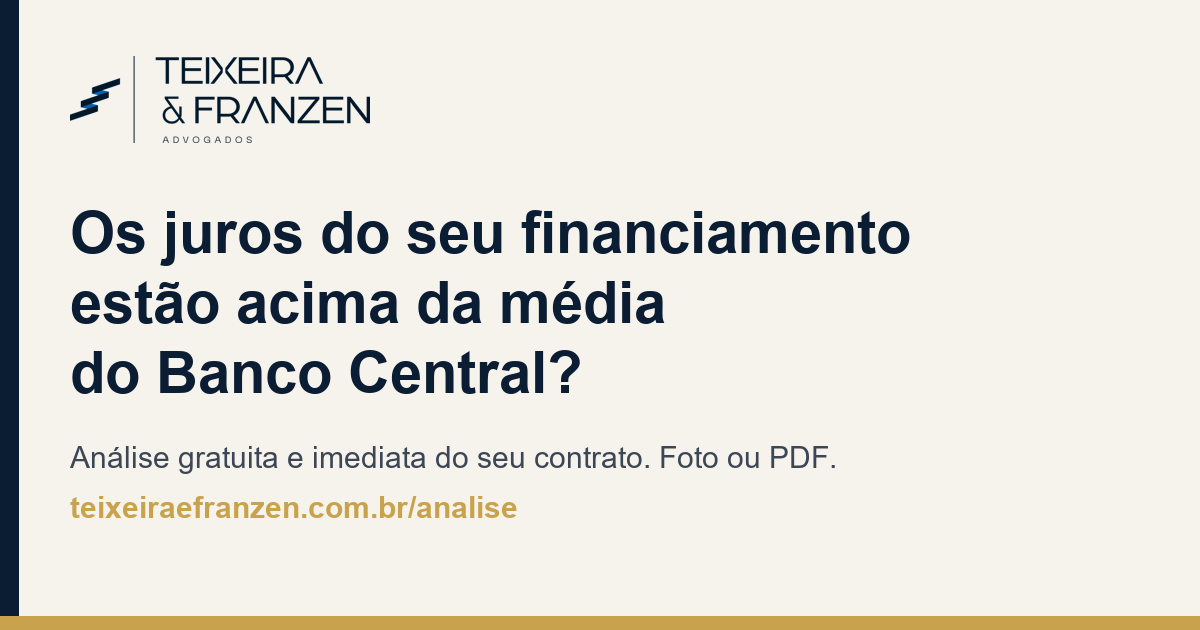
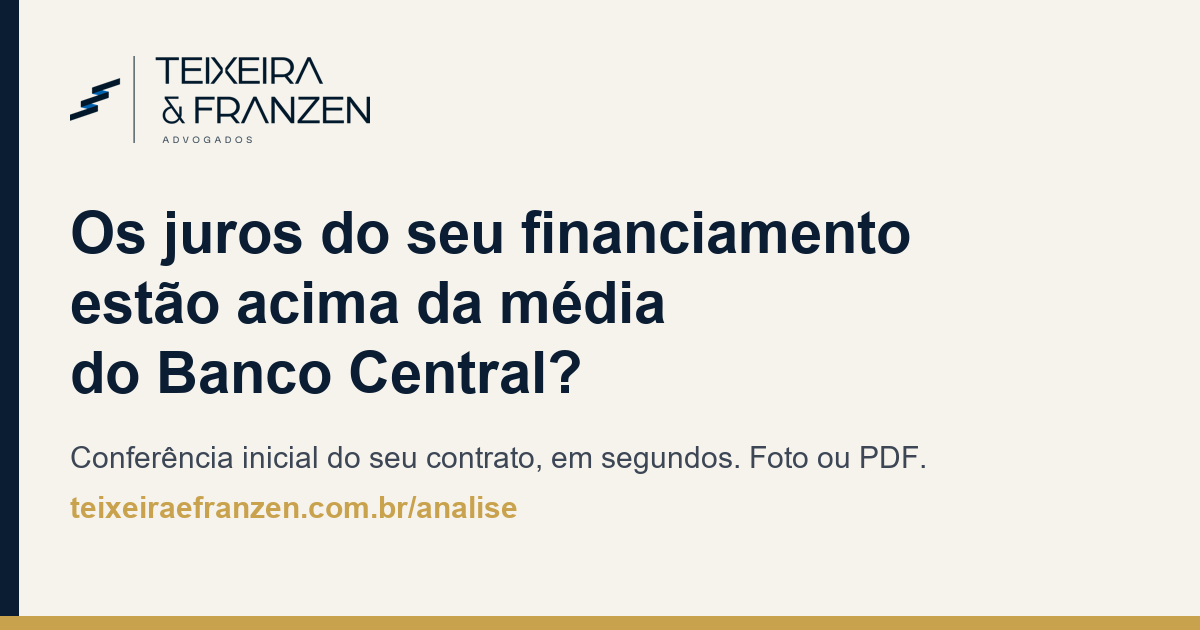
Textos: 'conferência inicial' no lugar de 'análise gratuita'; aviso de caráter informativo no topo

Changed region(s): [[0.0617, 0.6937, 0.7708, 0.754]]

diff --git a/analise/cidades/index.html b/analise/cidades/index.html
@@ -6,14 +6,14 @@
   <meta charset="utf-8">
   <meta name="viewport" content="width=device-width, initial-scale=1">
   <title>Revisional de financiamento e juros abusivos no Rio Grande do Sul: cidades atendidas</title>
-  <meta name="description" content="Análise gratuita de contratos de financiamento, empréstimo e consignado para clientes de todo o Rio Grande do Sul. Veja as cidades atendidas pelo escritório.">
+  <meta name="description" content="Conferência inicial de contratos de financiamento, empréstimo e consignado para clientes de todo o Rio Grande do Sul. Veja as cidades atendidas pelo escritório.">
   <link href="https://fonts.googleapis.com/css2?family=Big+Shoulders+Display:wght@500;600;700;800&family=Source+Serif+4:ital,wght@0,400;0,500;0,600;1,400&family=Inter:wght@400;500;600&display=swap" rel="stylesheet">
   <link rel="stylesheet" href="/analise/style.css">
   <!-- seo-inicio -->
   <link rel="canonical" href="https://teixeiraefranzen.com.br/analise/cidades/">
   <meta property="og:type" content="article">
   <meta property="og:title" content="Revisional de financiamento e juros abusivos no Rio Grande do Sul: cidades atendidas">
-  <meta property="og:description" content="Análise gratuita de contratos de financiamento, empréstimo e consignado para clientes de todo o Rio Grande do Sul. Veja as cidades atendidas pelo escritório.">
+  <meta property="og:description" content="Conferência inicial de contratos de financiamento, empréstimo e consignado para clientes de todo o Rio Grande do Sul. Veja as cidades atendidas pelo escritório.">
   <meta property="og:url" content="https://teixeiraefranzen.com.br/analise/cidades/">
   <meta property="og:locale" content="pt_BR">
   <meta property="og:image" content="https://teixeiraefranzen.com.br/analise/og.png">
@@ -24,7 +24,7 @@
   
   <script type="application/ld+json">{"@context":"https://schema.org","@type":"LegalService","name":"Teixeira & Franzen Advogados","url":"https://teixeiraefranzen.com.br","areaServed":"Rio Grande do Sul, Brasil","description":"Análise informativa de contratos bancários."}</script>
   <!-- seo-fim -->
-  <script type="application/ld+json">{"@context":"https://schema.org","@type":"WebPage","headline":"Revisional de financiamento e juros abusivos no Rio Grande do Sul: cidades atendidas","description":"Análise gratuita de contratos de financiamento, empréstimo e consignado para clientes de todo o Rio Grande do Sul. Veja as cidades atendidas pelo escritório.","datePublished":"2026-10-08","dateModified":"2026-10-08","inLanguage":"pt-BR","author":{"@type":"Organization","name":"Teixeira & Franzen Advogados"},"publisher":{"@type":"Organization","name":"Teixeira & Franzen Advogados"},"mainEntityOfPage":"https://teixeiraefranzen.com.br/analise/cidades/","image":"https://teixeiraefranzen.com.br/analise/og.png"}</script>
+  <script type="application/ld+json">{"@context":"https://schema.org","@type":"WebPage","headline":"Revisional de financiamento e juros abusivos no Rio Grande do Sul: cidades atendidas","description":"Conferência inicial de contratos de financiamento, empréstimo e consignado para clientes de todo o Rio Grande do Sul. Veja as cidades atendidas pelo escritório.","datePublished":"2026-10-08","dateModified":"2026-10-08","inLanguage":"pt-BR","author":{"@type":"Organization","name":"Teixeira & Franzen Advogados"},"publisher":{"@type":"Organization","name":"Teixeira & Franzen Advogados"},"mainEntityOfPage":"https://teixeiraefranzen.com.br/analise/cidades/","image":"https://teixeiraefranzen.com.br/analise/og.png"}</script>
   
 </head>
 <body>
@@ -55,7 +55,7 @@
 <li><a href="/analise/cidades/cachoeirinha/"><b>Cachoeirinha</b></a><p>Revisional de financiamento de veículo, empréstimo e consignado em Cachoeirinha e a região metropolitana.</p></li>
 <li><a href="/analise/cidades/rio-grande/"><b>Rio Grande</b></a><p>Revisional de financiamento de veículo, empréstimo e consignado em Rio Grande e a Zona Sul.</p></li></ul>
     <div class="valor-box">
-      <h3>Confira o seu contrato em segundos, sem custo</h3>
+      <h3>Faça a conferência inicial do seu contrato</h3>
       <p>Envie a foto ou o PDF do contrato, ou informe a taxa, as parcelas e o mês da contratação. A ferramenta compara com a média do Banco Central daquele mês e aponta seguros embutidos e tarifas. Resultado informativo.</p>
       <a class="btn gold big" href="/analise/#analise">Analisar meu contrato</a>
     </div>

diff --git a/analise/cartao/index.html b/analise/cartao/index.html
@@ -12,7 +12,7 @@
   <link rel="preconnect" href="https://fonts.googleapis.com"><link rel="preconnect" href="https://fonts.gstatic.com" crossorigin>
   <link href="https://fonts.googleapis.com/css2?family=Big+Shoulders+Display:wght@500;600;700;800&family=Source+Serif+4:ital,wght@0,400;0,500;0,600;1,400&family=Inter:wght@400;500;600&display=swap" rel="stylesheet">
   <link href="https://fonts.googleapis.com/css2?family=Big+Shoulders+Display:wght@500;600;700;800&family=Source+Serif+4:ital,wght@0,400;0,500;0,600;1,400&family=Inter:wght@400;500;600&display=swap" rel="stylesheet">
-  <link rel="stylesheet" href="/analise/style.css?v=202610091541">
+  <link rel="stylesheet" href="/analise/style.css?v=202610091548">
   <!-- seo-inicio -->
   <link rel="canonical" href="https://teixeiraefranzen.com.br/analise/cartao/">
   <meta property="og:type" content="website">
@@ -134,7 +134,7 @@
       <ul class="achados blur" id="res-achados"></ul>
       <div class="overlay"><div>
         <strong id="lock-titulo">Demonstrativo completo</strong>
-        <p class="hint">Os valores, a média oficial do Banco Central e o detalhamento de cada ponto ficam ocultos até você concluir o cadastro. Leva 20 segundos e não tem custo.</p>
+        <p class="hint">Os valores, a média oficial do Banco Central e o detalhamento de cada ponto ficam ocultos até você concluir o cadastro. Leva 20 segundos.</p>
         <a class="btn gold" href="#lead">Concluir cadastro e liberar</a>
       </div></div>
     </div>
@@ -210,8 +210,8 @@
     Ferramenta de caráter informativo. Não constitui consulta, parecer ou promessa de resultado. Médias de mercado: Banco Central do Brasil. <a href="/analise/artigos/">Artigos</a> · <a href="/analise/media-juros/">Médias do Banco Central</a> · <a href="/analise/cidades/">Cidades</a> · <a href='/analise/privacidade'>Política de Privacidade</a>
   </div>
 </footer>
-<script type="module" src="/analise/analise.js?v=202610091541"></script>
-<script src="/analise/leitor.js?v=202610091541"></script>
-<script src="/analise/app.js?v=202610091541"></script>
+<script type="module" src="/analise/analise.js?v=202610091548"></script>
+<script src="/analise/leitor.js?v=202610091548"></script>
+<script src="/analise/app.js?v=202610091548"></script>
 </body>
 </html>

diff --git a/analise/index.html b/analise/index.html
@@ -12,7 +12,7 @@
   <link rel="preconnect" href="https://fonts.googleapis.com"><link rel="preconnect" href="https://fonts.gstatic.com" crossorigin>
   <link href="https://fonts.googleapis.com/css2?family=Big+Shoulders+Display:wght@500;600;700;800&family=Source+Serif+4:ital,wght@0,400;0,500;0,600;1,400&family=Inter:wght@400;500;600&display=swap" rel="stylesheet">
   <link href="https://fonts.googleapis.com/css2?family=Big+Shoulders+Display:wght@500;600;700;800&family=Source+Serif+4:ital,wght@0,400;0,500;0,600;1,400&family=Inter:wght@400;500;600&display=swap" rel="stylesheet">
-  <link rel="stylesheet" href="/analise/style.css?v=202610091541">
+  <link rel="stylesheet" href="/analise/style.css?v=202610091548">
   <!-- seo-inicio -->
   <link rel="canonical" href="https://teixeiraefranzen.com.br/analise/">
   <meta property="og:type" content="website">
@@ -134,7 +134,7 @@
       <ul class="achados blur" id="res-achados"></ul>
       <div class="overlay"><div>
         <strong id="lock-titulo">Demonstrativo completo</strong>
-        <p class="hint">Os valores, a média oficial do Banco Central e o detalhamento de cada ponto ficam ocultos até você concluir o cadastro. Leva 20 segundos e não tem custo.</p>
+        <p class="hint">Os valores, a média oficial do Banco Central e o detalhamento de cada ponto ficam ocultos até você concluir o cadastro. Leva 20 segundos.</p>
         <a class="btn gold" href="#lead">Concluir cadastro e liberar</a>
       </div></div>
     </div>
@@ -195,8 +195,8 @@
     Ferramenta de caráter informativo. Não constitui consulta, parecer ou promessa de resultado. Médias de mercado: Banco Central do Brasil. <a href="/analise/artigos/">Artigos</a> · <a href="/analise/media-juros/">Médias do Banco Central</a> · <a href="/analise/cidades/">Cidades</a> · <a href='/analise/privacidade'>Política de Privacidade</a>
   </div>
 </footer>
-<script type="module" src="/analise/analise.js?v=202610091541"></script>
-<script src="/analise/leitor.js?v=202610091541"></script>
-<script src="/analise/app.js?v=202610091541"></script>
+<script type="module" src="/analise/analise.js?v=202610091548"></script>
+<script src="/analise/leitor.js?v=202610091548"></script>
+<script src="/analise/app.js?v=202610091548"></script>
 </body>
 </html>

diff --git a/analise/consignado/index.html b/analise/consignado/index.html
@@ -12,7 +12,7 @@
   <link rel="preconnect" href="https://fonts.googleapis.com"><link rel="preconnect" href="https://fonts.gstatic.com" crossorigin>
   <link href="https://fonts.googleapis.com/css2?family=Big+Shoulders+Display:wght@500;600;700;800&family=Source+Serif+4:ital,wght@0,400;0,500;0,600;1,400&family=Inter:wght@400;500;600&display=swap" rel="stylesheet">
   <link href="https://fonts.googleapis.com/css2?family=Big+Shoulders+Display:wght@500;600;700;800&family=Source+Serif+4:ital,wght@0,400;0,500;0,600;1,400&family=Inter:wght@400;500;600&display=swap" rel="stylesheet">
-  <link rel="stylesheet" href="/analise/style.css?v=202610091541">
+  <link rel="stylesheet" href="/analise/style.css?v=202610091548">
   <!-- seo-inicio -->
   <link rel="canonical" href="https://teixeiraefranzen.com.br/analise/consignado/">
   <meta property="og:type" content="website">
@@ -210,8 +210,8 @@
     Ferramenta de caráter informativo. Não constitui consulta, parecer ou promessa de resultado. Médias de mercado: Banco Central do Brasil. <a href="/analise/artigos/">Artigos</a> · <a href="/analise/media-juros/">Médias do Banco Central</a> · <a href="/analise/cidades/">Cidades</a> · <a href='/analise/privacidade'>Política de Privacidade</a>
   </div>
 </footer>
-<script type="module" src="/analise/analise.js?v=202610091541"></script>
-<script src="/analise/leitor.js?v=202610091541"></script>
-<script src="/analise/app.js?v=202610091541"></script>
+<script type="module" src="/analise/analise.js?v=202610091548"></script>
+<script src="/analise/leitor.js?v=202610091548"></script>
+<script src="/analise/app.js?v=202610091548"></script>
 </body>
 </html>

diff --git a/analise/emprestimo/index.html b/analise/emprestimo/index.html
@@ -12,7 +12,7 @@
   <link rel="preconnect" href="https://fonts.googleapis.com"><link rel="preconnect" href="https://fonts.gstatic.com" crossorigin>
   <link href="https://fonts.googleapis.com/css2?family=Big+Shoulders+Display:wght@500;600;700;800&family=Source+Serif+4:ital,wght@0,400;0,500;0,600;1,400&family=Inter:wght@400;500;600&display=swap" rel="stylesheet">
   <link href="https://fonts.googleapis.com/css2?family=Big+Shoulders+Display:wght@500;600;700;800&family=Source+Serif+4:ital,wght@0,400;0,500;0,600;1,400&family=Inter:wght@400;500;600&display=swap" rel="stylesheet">
-  <link rel="stylesheet" href="/analise/style.css?v=202610091541">
+  <link rel="stylesheet" href="/analise/style.css?v=202610091548">
   <!-- seo-inicio -->
   <link rel="canonical" href="https://teixeiraefranzen.com.br/analise/emprestimo/">
   <meta property="og:type" content="website">
@@ -211,8 +211,8 @@
     Ferramenta de caráter informativo. Não constitui consulta, parecer ou promessa de resultado. Médias de mercado: Banco Central do Brasil. <a href="/analise/artigos/">Artigos</a> · <a href="/analise/media-juros/">Médias do Banco Central</a> · <a href="/analise/cidades/">Cidades</a> · <a href='/analise/privacidade'>Política de Privacidade</a>
   </div>
 </footer>
-<script type="module" src="/analise/analise.js?v=202610091541"></script>
-<script src="/analise/leitor.js?v=202610091541"></script>
-<script src="/analise/app.js?v=202610091541"></script>
+<script type="module" src="/analise/analise.js?v=202610091548"></script>
+<script src="/analise/leitor.js?v=202610091548"></script>
+<script src="/analise/app.js?v=202610091548"></script>
 </body>
 </html>

diff --git a/analise/veiculos/index.html b/analise/veiculos/index.html
@@ -12,7 +12,7 @@
   <link rel="preconnect" href="https://fonts.googleapis.com"><link rel="preconnect" href="https://fonts.gstatic.com" crossorigin>
   <link href="https://fonts.googleapis.com/css2?family=Big+Shoulders+Display:wght@500;600;700;800&family=Source+Serif+4:ital,wght@0,400;0,500;0,600;1,400&family=Inter:wght@400;500;600&display=swap" rel="stylesheet">
   <link href="https://fonts.googleapis.com/css2?family=Big+Shoulders+Display:wght@500;600;700;800&family=Source+Serif+4:ital,wght@0,400;0,500;0,600;1,400&family=Inter:wght@400;500;600&display=swap" rel="stylesheet">
-  <link rel="stylesheet" href="/analise/style.css?v=202610091541">
+  <link rel="stylesheet" href="/analise/style.css?v=202610091548">
   <!-- seo-inicio -->
   <link rel="canonical" href="https://teixeiraefranzen.com.br/analise/veiculos/">
   <meta property="og:type" content="website">
@@ -210,8 +210,8 @@
     Ferramenta de caráter informativo. Não constitui consulta, parecer ou promessa de resultado. Médias de mercado: Banco Central do Brasil. <a href="/analise/artigos/">Artigos</a> · <a href="/analise/media-juros/">Médias do Banco Central</a> · <a href="/analise/cidades/">Cidades</a> · <a href='/analise/privacidade'>Política de Privacidade</a>
   </div>
 </footer>
-<script type="module" src="/analise/analise.js?v=202610091541"></script>
-<script src="/analise/leitor.js?v=202610091541"></script>
-<script src="/analise/app.js?v=202610091541"></script>
+<script type="module" src="/analise/analise.js?v=202610091548"></script>
+<script src="/analise/leitor.js?v=202610091548"></script>
+<script src="/analise/app.js?v=202610091548"></script>
 </body>
 </html>

diff --git a/index.html b/index.html
@@ -404,7 +404,7 @@
     <nav class="links">
       <a href="#areas">Áreas de atuação</a>
       <a href="#sobre">Sobre</a>
-      <a href="/analise/">Análise gratuita</a>
+      <a href="/analise/">Conferência inicial</a>
       <a href="https://www.instagram.com/teixeiraefranzen_adv/" target="_blank" rel="noopener">Instagram</a>
     </nav>
     <div class="header-actions">
@@ -535,10 +535,10 @@
 
   <section class="cta-final" id="analise-gratis">
     <div class="wrap reveal">
-      <p class="kicker">Ferramenta gratuita</p>
+      <p class="kicker">Conferência inicial</p>
       <h2>Os juros do seu financiamento<br>estão acima da média?</h2>
-      <p>Envie a foto ou o PDF do contrato do carro, do empréstimo ou do consignado. Em segundos comparamos a taxa com a média oficial do Banco Central do mês em que você contratou e apontamos seguros embutidos e tarifas indevidas. Sem custo, sem compromisso.</p>
-      <a class="btn btn-primary" href="/analise/">Analisar meu contrato grátis</a>
+      <p>Envie a foto ou o PDF do contrato do carro, do empréstimo ou do consignado. Em segundos comparamos a taxa com a média oficial do Banco Central do mês em que você contratou e apontamos seguros embutidos e tarifas indevidas. Em segundos, pelo celular.</p>
+      <a class="btn btn-primary" href="/analise/">Fazer a conferência inicial</a>
       <p class="cta-note">Leitura feita no seu próprio celular · Resultado na hora · <a href="/analise/artigos/" style="color:inherit">Artigos sobre juros abusivos</a></p>
     </div>
   </section>
